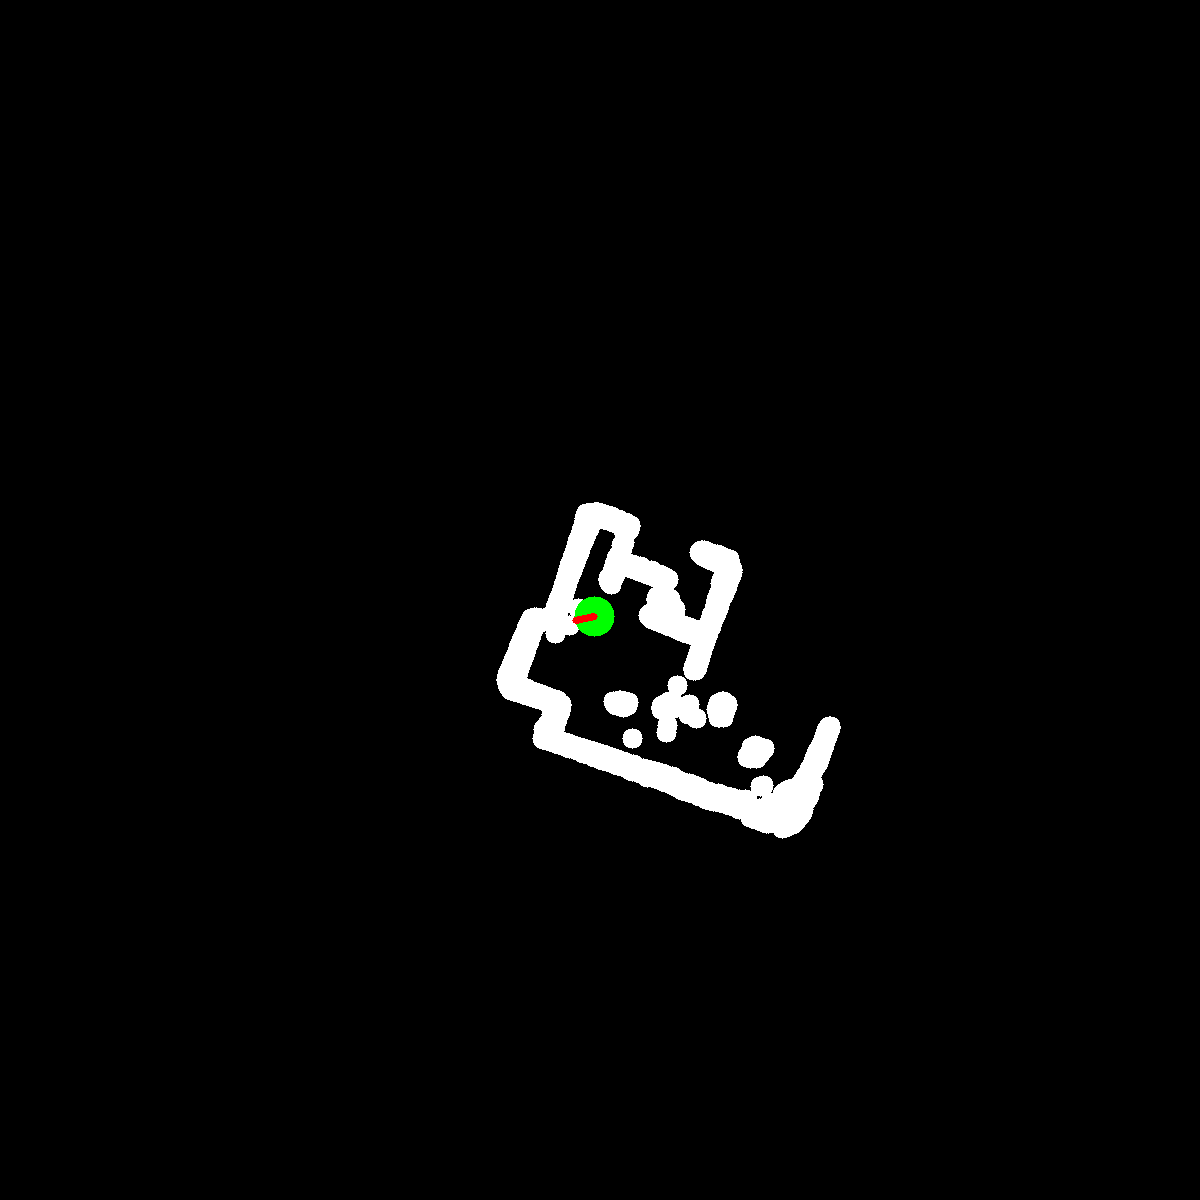
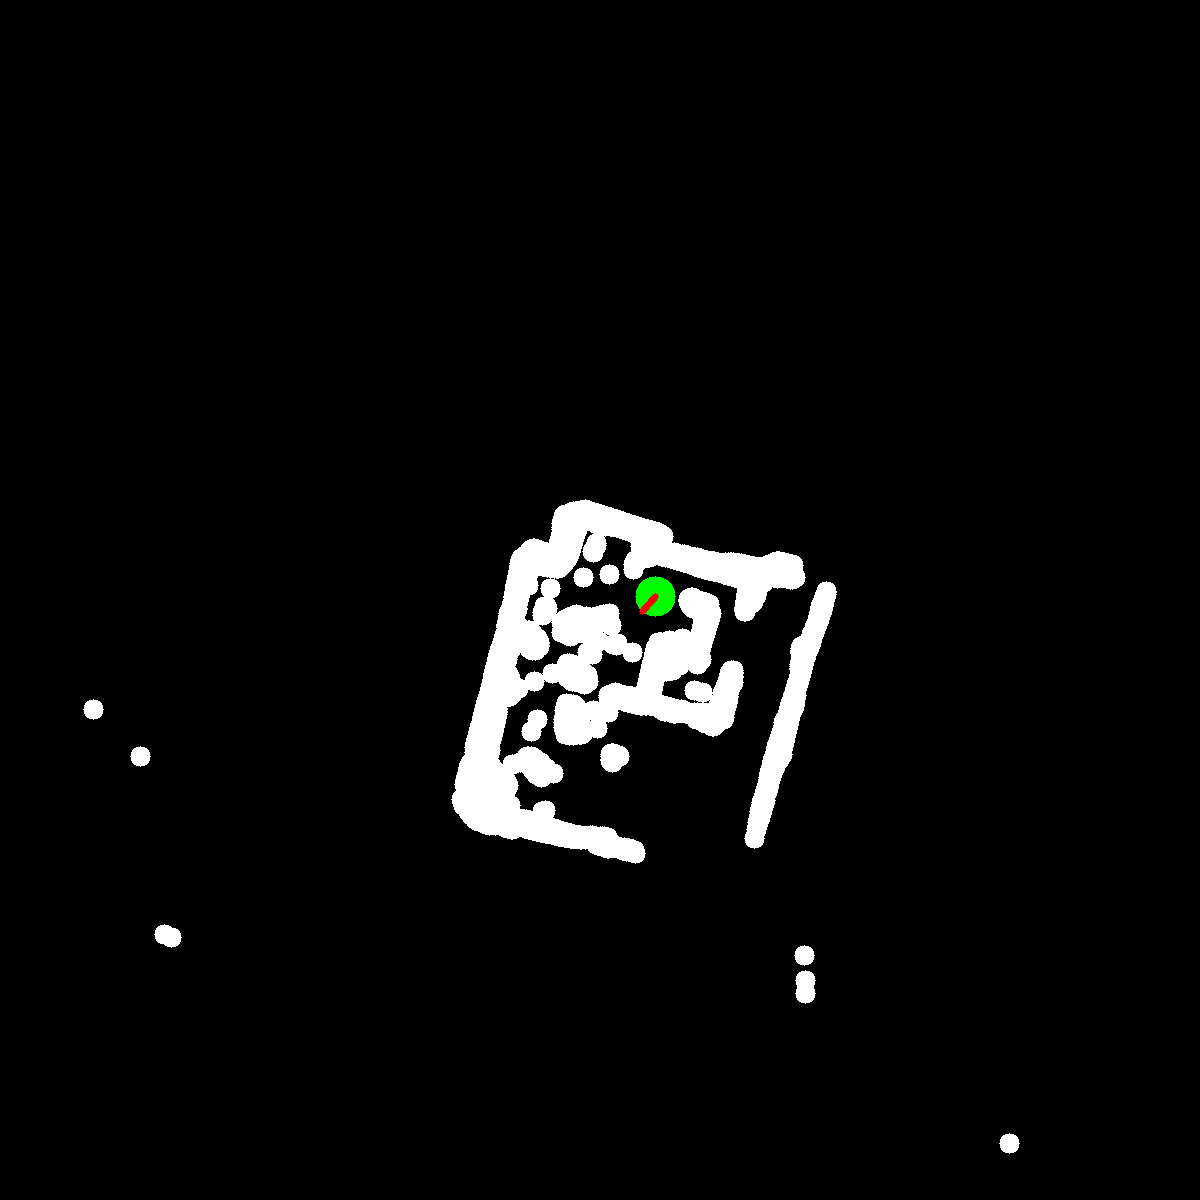
find_path

diff --git a/lidar_main_work/slam_nav.py b/lidar_main_work/slam_nav.py
@@ -8,10 +8,11 @@ import math
 from opt import (read_txt, icp_2d, polar_to_cartesian_from_x,
                   filter_points_by_radius, get_affine_matrix, 
                  apply_transform, draw_points, affine_matrix_from_axes_and_offset,
-                   angle_from_xy1_point_to_xy0_direction)
+                   angle_from_xy1_point_to_xy0_direction, down_sample_point_cloud)
 from path_find import find_path_to_nearest, find_farthest_point_on_path
 
 
+MIN_LIDAR_POINTS_FOR_INIT = 400
 
 class LidarToVideoSLAM:
     def __init__(self, out_folder: str = "", 
@@ -37,8 +38,8 @@ class LidarToVideoSLAM:
         self.scale = scale  # Масштаб для перевода м в пиксели
         self.prev_point_cloud = None
         self.video_name = video_name
-        self.goal = np.array(goal)
-        self.local_goal = np.array(goal)
+        self.goal = self.get_point_coord_on_map(np.array(goal))
+        self.local_goal = self.get_point_coord_on_map(np.array(goal))
         R = np.array([[0, -1],
                     [1,  0]])
         orientation_x = np.array(orientation_x)
@@ -66,6 +67,9 @@ class LidarToVideoSLAM:
                 10,  # Частота кадров
                 (self.resolution, self.resolution)
             )
+    
+    def get_point_coord_on_map(self, point):
+        return np.floor(point * self.scale).astype(np.int32)
 
     def move_point_cloud_from_lidar_to_robot_center(self, point_cloud):
         return point_cloud + self.lidar_shear.T
@@ -77,7 +81,7 @@ class LidarToVideoSLAM:
         :param data: Список точек в формате [(angle, distance, intensity), ...].
                      Угол задан в градусах, расстояние в мм, интенсивность в диапазоне [0, 255].
         """
-        if self.start and len(data) < 400:
+        if self.start and len(data) < MIN_LIDAR_POINTS_FOR_INIT:
             print("Not enough lidar points for initiate. Waiting...")
             return
         self.start = False
@@ -86,13 +90,13 @@ class LidarToVideoSLAM:
             im = self.map.copy()
             im = self.draw_object_and_orient(im)
             im = self.draw_path(im)
-            cv.imwrite("hello.png", im)
+            im = self.draw_local_goal(im)
             self.out.write(im)
             
             
     def add_point_cloud_to_map(self, point_cloud):
         for point in point_cloud:
-            x, y = point * self.scale
+            x, y = self.get_point_coord_on_map(point)
             cv.circle(self.map, [int(x), int(y)], self.wall_radius, [255, 255, 255], -1)
     
     def remove_robot_from_point_cloud(self, point_cloud):
@@ -102,25 +106,35 @@ class LidarToVideoSLAM:
         pass
     
     def draw_object_and_orient(self, im):            
-        cv.circle(im, np.floor(self.object_center * self.scale).astype(np.int32), 
+        cv.circle(im, self.get_point_coord_on_map(self.object_center), 
                   math.ceil(self.object_radius_for_drawing * self.scale), 
                   (0, 255, 0), -1)
-        cv.line(im, np.floor(self.object_center * self.scale).astype(np.int32), 
-                np.floor(self.object_orient * self.scale).astype(np.int32),
+        cv.line(im, self.get_point_coord_on_map(self.object_center), 
+                self.get_point_coord_on_map(self.object_orient),
                   (0, 0, 255), math.ceil(self.orient_line_width_for_draing * self.scale))
         return im
     
     def find_next_local_goal(self):
-        path = find_path_to_nearest(self.map, self.object_center.astype(np.int32), self.goal)
+        path = find_path_to_nearest(self.map, 
+                                    self.get_point_coord_on_map(self.object_center), self.goal)
         self.path = path
-        local_goal = find_farthest_point_on_path(self.map, path, self.object_center)
-        local_goal_theta = angle_from_xy1_point_to_xy0_direction(self.transform, local_goal)
-        local_goal_distance = np.linalg.norm(np.array(local_goal) - self.object_center)
+        self.local_goal = find_farthest_point_on_path(self.map, path, 
+                                                      self.get_point_coord_on_map(self.object_center))
+    
+    def get_local_goal(self):
+        local_goal_theta = angle_from_xy1_point_to_xy0_direction(self.transform, self.local_goal)
+        local_goal_distance = np.linalg.norm(np.array(self.local_goal) - self.get_point_coord_on_map(self.object_center))
         return local_goal_theta, local_goal_distance
     
     def draw_path(self, im):
         for p in self.path[1:-1]:
-            im[p.x, p.y] = (255, 0, 0)
+            cv.circle(im, [p.x, p.y], self.wall_radius, (255, 0, 0), -1)
+            # im[p.x, p.y] = (255, 0, 0)
+        return im
+    
+    def draw_local_goal(self, im):
+        cv.line(im, self.get_point_coord_on_map(self.object_center), 
+                self.local_goal, (255, 255, 0), math.ceil(self.orient_line_width_for_draing * self.scale))
         return im
         
         
@@ -140,8 +154,8 @@ class LidarToVideoSLAM:
         if self.prev_point_cloud is None:
             self.prev_point_cloud = cart_points
         else:            
-            theta, tx, ty = icp_2d(self.prev_point_cloud.T, cart_points.T, max_corr_dist=0.2,
-                                   voxel_down_sample=0.05,
+            theta, tx, ty = icp_2d(self.prev_point_cloud.T, cart_points.T, max_corr_dist=0.1,
+                                   voxel_down_sample=None,
                                    remove_points_prev=None)            
             if abs(theta * 180 / np.pi) > 15:
                 return            
@@ -153,6 +167,8 @@ class LidarToVideoSLAM:
             self.object_orient = apply_transform([self.object_orient], new_transform)[0]            
             
         self.add_point_cloud_to_map(cart_points)
+        if len(self.prev_point_cloud) > 5000:
+            self.prev_point_cloud = down_sample_point_cloud(self.prev_point_cloud.T, 0.01)
 
 
 
@@ -174,24 +190,25 @@ if __name__ == "__main__":
     # Создаем объект для записи видео
     lidar_to_video = LidarToVideoSLAM(out_folder="output_videos",
                                       scale=100,
-                                      map_size_meters=12,
-                                      video_name="go_test_new",
+                                      map_size_meters=4,
+                                      video_name="go_test_path",
                                       wall_radius=0.1,
-                                      goal=[0.5, 3.5],
-                                      start_position=[6, 6],
+                                      goal=[3.5, 3.5],
+                                      start_position=[2, 2],
                                       orientation_x=[0, -1]
                                       )
     
     # Создаем новый видеофайл
-    data = read_txt("lidar_main_work/scan_output_1761760703.txt")
+    data = read_txt("lidar_main_work/scan_output_1761760087.txt")
     
     # Записываем данные в видео
     for i, point_cloud in tqdm(enumerate(data), total=len(data)):  # 100 кадров
         # if i < 1:
             # continue
         lidar_to_video.write(np.array(point_cloud['p']))
-        # if i > 5*25:
-        #     break
+        lidar_to_video.find_next_local_goal()
+        if i > 5*10:
+            break
     
     # Останавливаем запись
     lidar_to_video.stop()

diff --git a/lidar_main_work/path_find.py b/lidar_main_work/path_find.py
@@ -56,7 +56,7 @@ def is_line_clear(im, start, end):
 
     while True:
         # Если текущая точка находится на препятствии, возвращаем False
-        if im[y0, x0] != 0:
+        if im[y0, x0] == 0:
             return False
         if x0 == x1 and y0 == y1:
             break
@@ -75,7 +75,7 @@ def find_farthest_point_on_path(im, path, start):
     """
     farthest_point = None
     for point in path:
-        if is_line_clear(im, start, point):
+        if is_line_clear(im[:, :, 0], start, point):
             farthest_point = point
         else:
             break  # Прекращаем проверку, если встретили препятствие

diff --git a/lidar_main_work/opt.py b/lidar_main_work/opt.py
@@ -134,6 +134,15 @@ def scan_to_pcd(pts2d):
     pcd.points = o3d.utility.Vector3dVector(pts3d)
     return pcd
 
+def pcd_to_scan(pcd):
+    pts3d = np.asarray(pcd.points)
+    return pts3d[:, :2]  # (N, 2)
+
+def down_sample_point_cloud(points, voxel_down_sample):
+    pcd = scan_to_pcd(points)
+    target = pcd.voxel_down_sample(voxel_down_sample)
+    points_down = pcd_to_scan(target)
+    return points_down
 
 def farthest_point_sampling(pcd, npoints):
     points = np.asarray(pcd.points)
